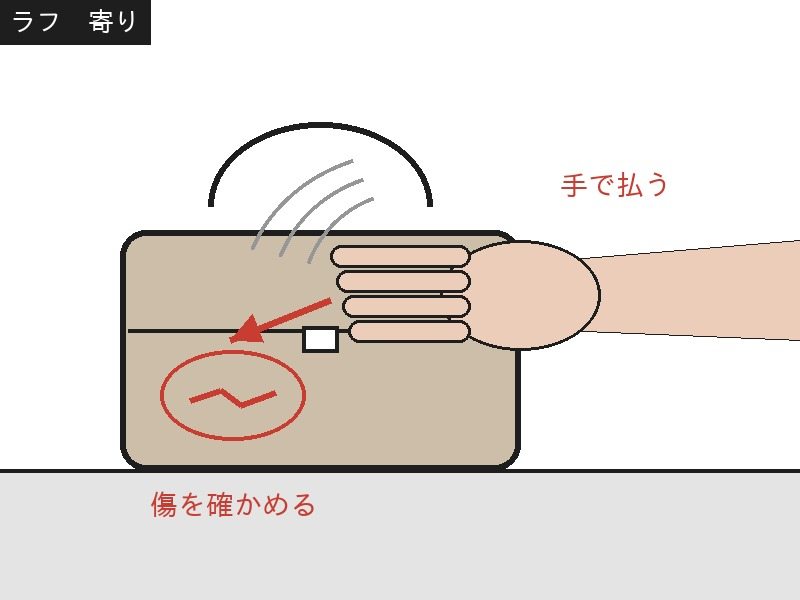
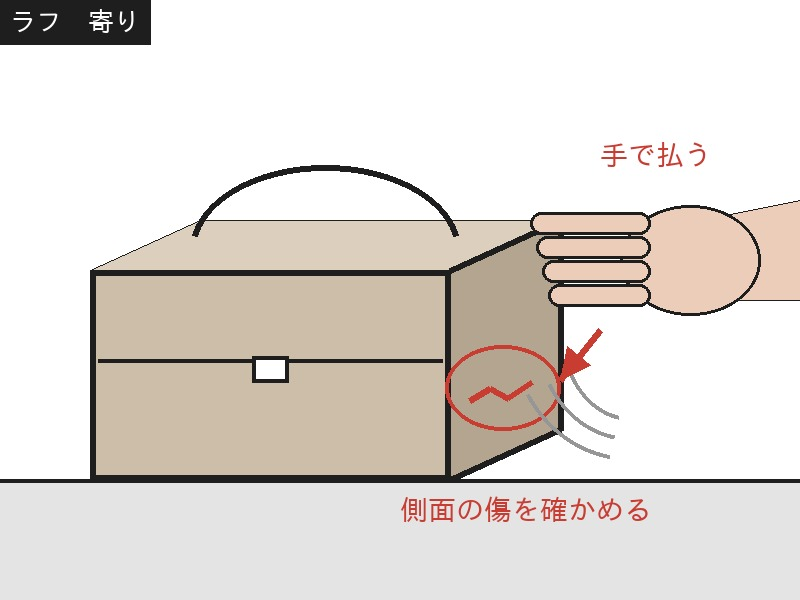
上里さん❷ショット1：傷を鞄の側面に移す
Claude-Session: https://claude.ai/code/session_01BfbN5jHJfa7zbZdrxGCBGx

Changed region(s): [[0.0, 0.18, 1.0, 0.87], [0.3438, 0.69, 0.375, 0.72], [0.2812, 0.24, 0.3125, 0.27]]

diff --git a/pdf/ue1008_ekonte.html b/pdf/ue1008_ekonte.html
@@ -1,1 +1,1 @@
-<html><head><meta charset="utf-8"></head><body style="font-family:Arial"><h2 style="margin:0 0 4pt">❶絵コンテ　3秒　計12秒　参考<a href="https://www.instagram.com/reel/DbGnXCnRMrT/?stkn=MWhvbGVkamlwd3Nn">Link</a></h2><table style="border-collapse:collapse"><tr><td width="25%" style="border:1px solid #999;padding:3px;text-align:center"><img src="https://raw.githubusercontent.com/Shiori0415/dougaseisaku/claude/4-sheets-later-l5chh0/assets/ue1008/t_a1.jpg" width="130" height="305"></td><td width="25%" style="border:1px solid #999;padding:3px;text-align:center"><img src="https://raw.githubusercontent.com/Shiori0415/dougaseisaku/claude/4-sheets-later-l5chh0/assets/ue1008/t_a2.jpg" width="130" height="305"></td><td width="25%" style="border:1px solid #999;padding:3px;text-align:center"><img src="https://raw.githubusercontent.com/Shiori0415/dougaseisaku/claude/4-sheets-later-l5chh0/assets/ue1008/t_a3.jpg" width="130" height="305"></td><td width="25%" style="border:1px solid #999;padding:3px;text-align:center"><img src="https://raw.githubusercontent.com/Shiori0415/dougaseisaku/claude/4-sheets-later-l5chh0/assets/ue1008/t_a4.jpg" width="130" height="305"></td></tr></table><h2 style="margin:8pt 0 4pt">❷絵コンテ　1秒〜3秒　計20秒　参考<a href="https://www.instagram.com/reel/DdEWeatvvig/?stkn=MWN1aDVpdzZnOGZ0ZQ==">Link</a></h2><table style="border-collapse:collapse"><tr><td width="50%" style="border:1px solid #999;padding:3px;text-align:center"><img src="https://raw.githubusercontent.com/Shiori0415/dougaseisaku/claude/4-sheets-later-l5chh0/assets/ue1008/t_s1b.jpg" width="230" height="200"></td><td width="50%" style="border:1px solid #999;padding:3px;text-align:center"><img src="https://raw.githubusercontent.com/Shiori0415/dougaseisaku/claude/4-sheets-later-l5chh0/assets/ue1008/t_s2.jpg" width="230" height="200"></td></tr><tr><td width="50%" style="border:1px solid #999;padding:3px;text-align:center"><img src="https://raw.githubusercontent.com/Shiori0415/dougaseisaku/claude/4-sheets-later-l5chh0/assets/ue1008/t_s3.jpg" width="230" height="200"></td><td width="50%" style="border:1px solid #999;padding:3px;text-align:center"><img src="https://raw.githubusercontent.com/Shiori0415/dougaseisaku/claude/4-sheets-later-l5chh0/assets/ue1008/t_s4.jpg" width="230" height="200"></td></tr><tr><td width="50%" style="border:1px solid #999;padding:3px;text-align:center"><img src="https://raw.githubusercontent.com/Shiori0415/dougaseisaku/claude/4-sheets-later-l5chh0/assets/ue1008/t_s5.jpg" width="230" height="200"></td><td width="50%" style="border:1px solid #999;padding:3px;text-align:center"><img src="https://raw.githubusercontent.com/Shiori0415/dougaseisaku/claude/4-sheets-later-l5chh0/assets/ue1008/t_s6.jpg" width="230" height="200"></td></tr><tr><td width="50%" style="border:1px solid #999;padding:3px;text-align:center"><img src="https://raw.githubusercontent.com/Shiori0415/dougaseisaku/claude/4-sheets-later-l5chh0/assets/ue1008/t_s7.jpg" width="230" height="200"></td><td width="50%" style="border:1px solid #999;padding:3px;text-align:center"><img src="https://raw.githubusercontent.com/Shiori0415/dougaseisaku/claude/4-sheets-later-l5chh0/assets/ue1008/t_s8.jpg" width="230" height="200"></td></tr><tr><td width="50%" style="border:1px solid #999;padding:3px;text-align:center"><img src="https://raw.githubusercontent.com/Shiori0415/dougaseisaku/claude/4-sheets-later-l5chh0/assets/ue1008/t_s9b.jpg" width="230" height="200"></td><td width="50%" style="border:1px solid #999;padding:3px;text-align:center"></td></tr></table></body></html>
+<html><head><meta charset="utf-8"></head><body style="font-family:Arial"><h2 style="margin:0 0 4pt">❶絵コンテ　3秒　計12秒　参考<a href="https://www.instagram.com/reel/DbGnXCnRMrT/?stkn=MWhvbGVkamlwd3Nn">Link</a></h2><table style="border-collapse:collapse"><tr><td width="25%" style="border:1px solid #999;padding:3px;text-align:center"><img src="https://raw.githubusercontent.com/Shiori0415/dougaseisaku/claude/4-sheets-later-l5chh0/assets/ue1008/t_a1.jpg" width="130" height="305"></td><td width="25%" style="border:1px solid #999;padding:3px;text-align:center"><img src="https://raw.githubusercontent.com/Shiori0415/dougaseisaku/claude/4-sheets-later-l5chh0/assets/ue1008/t_a2.jpg" width="130" height="305"></td><td width="25%" style="border:1px solid #999;padding:3px;text-align:center"><img src="https://raw.githubusercontent.com/Shiori0415/dougaseisaku/claude/4-sheets-later-l5chh0/assets/ue1008/t_a3.jpg" width="130" height="305"></td><td width="25%" style="border:1px solid #999;padding:3px;text-align:center"><img src="https://raw.githubusercontent.com/Shiori0415/dougaseisaku/claude/4-sheets-later-l5chh0/assets/ue1008/t_a4.jpg" width="130" height="305"></td></tr></table><h2 style="margin:8pt 0 4pt">❷絵コンテ　1秒〜3秒　計20秒　参考<a href="https://www.instagram.com/reel/DdEWeatvvig/?stkn=MWN1aDVpdzZnOGZ0ZQ==">Link</a></h2><table style="border-collapse:collapse"><tr><td width="50%" style="border:1px solid #999;padding:3px;text-align:center"><img src="https://raw.githubusercontent.com/Shiori0415/dougaseisaku/claude/4-sheets-later-l5chh0/assets/ue1008/t_s1c.jpg" width="230" height="200"></td><td width="50%" style="border:1px solid #999;padding:3px;text-align:center"><img src="https://raw.githubusercontent.com/Shiori0415/dougaseisaku/claude/4-sheets-later-l5chh0/assets/ue1008/t_s2.jpg" width="230" height="200"></td></tr><tr><td width="50%" style="border:1px solid #999;padding:3px;text-align:center"><img src="https://raw.githubusercontent.com/Shiori0415/dougaseisaku/claude/4-sheets-later-l5chh0/assets/ue1008/t_s3.jpg" width="230" height="200"></td><td width="50%" style="border:1px solid #999;padding:3px;text-align:center"><img src="https://raw.githubusercontent.com/Shiori0415/dougaseisaku/claude/4-sheets-later-l5chh0/assets/ue1008/t_s4.jpg" width="230" height="200"></td></tr><tr><td width="50%" style="border:1px solid #999;padding:3px;text-align:center"><img src="https://raw.githubusercontent.com/Shiori0415/dougaseisaku/claude/4-sheets-later-l5chh0/assets/ue1008/t_s5.jpg" width="230" height="200"></td><td width="50%" style="border:1px solid #999;padding:3px;text-align:center"><img src="https://raw.githubusercontent.com/Shiori0415/dougaseisaku/claude/4-sheets-later-l5chh0/assets/ue1008/t_s6.jpg" width="230" height="200"></td></tr><tr><td width="50%" style="border:1px solid #999;padding:3px;text-align:center"><img src="https://raw.githubusercontent.com/Shiori0415/dougaseisaku/claude/4-sheets-later-l5chh0/assets/ue1008/t_s7.jpg" width="230" height="200"></td><td width="50%" style="border:1px solid #999;padding:3px;text-align:center"><img src="https://raw.githubusercontent.com/Shiori0415/dougaseisaku/claude/4-sheets-later-l5chh0/assets/ue1008/t_s8.jpg" width="230" height="200"></td></tr><tr><td width="50%" style="border:1px solid #999;padding:3px;text-align:center"><img src="https://raw.githubusercontent.com/Shiori0415/dougaseisaku/claude/4-sheets-later-l5chh0/assets/ue1008/t_s9b.jpg" width="230" height="200"></td><td width="50%" style="border:1px solid #999;padding:3px;text-align:center"></td></tr></table></body></html>

diff --git a/tools/build_ue1008_rough.py b/tools/build_ue1008_rough.py
@@ -70,25 +70,35 @@ def shoe(d, x, y, right=True):
 
 def s1():
     im, d = canvas()
-    d.rectangle((0, 470, W, H), fill=LIGHT)
-    d.line((0, 470, W, 470), fill=INK, width=4)
-    bag(d, (120, 230, 520, 470))
-    # 傷：払ったあと、丸で囲んで確かめる
-    sx, sy = 190, 400
-    d.line((sx, sy, sx + 30, sy - 10, sx + 50, sy + 5, sx + 85, sy - 8), fill=RED, width=6)
-    d.ellipse((sx - 30, sy - 50, sx + 115, sy + 40), outline=RED, width=4)
+    d.rectangle((0, 480, W, H), fill=LIGHT)
+    d.line((0, 480, W, 480), fill=INK, width=4)
+    # 鞄を斜めから：正面＋右の側面（マチ）
+    body, side = (205, 190, 170), (180, 165, 145)
+    d.polygon([(90, 270), (200, 220), (560, 220), (450, 270)], fill=(220, 207, 190), outline=INK)
+    d.polygon([(450, 270), (560, 220), (560, 430), (450, 480)], fill=side, outline=INK)
+    d.rectangle((90, 270, 450, 480), fill=body, outline=INK, width=6)
+    d.line((450, 270, 560, 220), fill=INK, width=6)
+    d.line((560, 220, 560, 430), fill=INK, width=6)
+    d.line((560, 430, 450, 480), fill=INK, width=6)
+    d.line((98, 360, 442, 360), fill=INK, width=4)
+    d.rectangle((252, 356, 288, 382), outline=INK, width=4, fill="white")
+    d.arc((190, 165, 460, 335), 190, 350, fill=INK, width=6)
+    # 傷は側面に
+    sx, sy = 470, 400
+    d.line((sx, sy, sx + 20, sy - 12, sx + 38, sy - 2, sx + 62, sy - 18), fill=RED, width=6)
+    d.ellipse((sx - 25, sy - 55, sx + 90, sy + 30), outline=RED, width=4)
     f = ImageFont.truetype(F, 28)
-    d.text((sx - 40, 490), "傷を確かめる", font=f, fill=RED)
-    # 手のひらで払う：手首は右から、指先は傷のほうへ
+    d.text((400, 495), "側面の傷を確かめる", font=f, fill=RED)
+    # 手のひらで側面を払う
     skin = (235, 205, 185)
-    d.polygon([(800, 240), (800, 340), (560, 330), (560, 260)], fill=skin, outline=INK)
-    d.ellipse((440, 240, 600, 350), fill=skin, outline=INK, width=3)
-    for i, y in enumerate((245, 270, 295, 320)):
-        d.rounded_rectangle((330 + i * 6, y, 470, y + 22), radius=11, fill=skin, outline=INK, width=3)
+    d.polygon([(800, 200), (800, 300), (700, 300), (700, 220)], fill=skin, outline=INK)
+    d.ellipse((620, 205, 760, 315), fill=skin, outline=INK, width=3)
+    for i, y in enumerate((212, 236, 260, 284)):
+        d.rounded_rectangle((530 + i * 6, y, 650, y + 22), radius=11, fill=skin, outline=INK, width=3)
     for k in range(3):
-        d.arc((300 - k * 30, 190 - k * 20, 520 + k * 30, 410 + k * 20), 200, 250, fill=GRAY, width=4)
-    d.text((560, 170), "手で払う", font=f, fill=RED)
-    arrow(d, (330, 300), (230, 340))
+        d.arc((560 - k * 25, 240 - k * 20, 700 + k * 25, 420 + k * 20), 100, 150, fill=GRAY, width=4)
+    d.text((600, 140), "手で払う", font=f, fill=RED)
+    arrow(d, (600, 330), (560, 380))
     tag(d, "ラフ　寄り")
     return im
 
